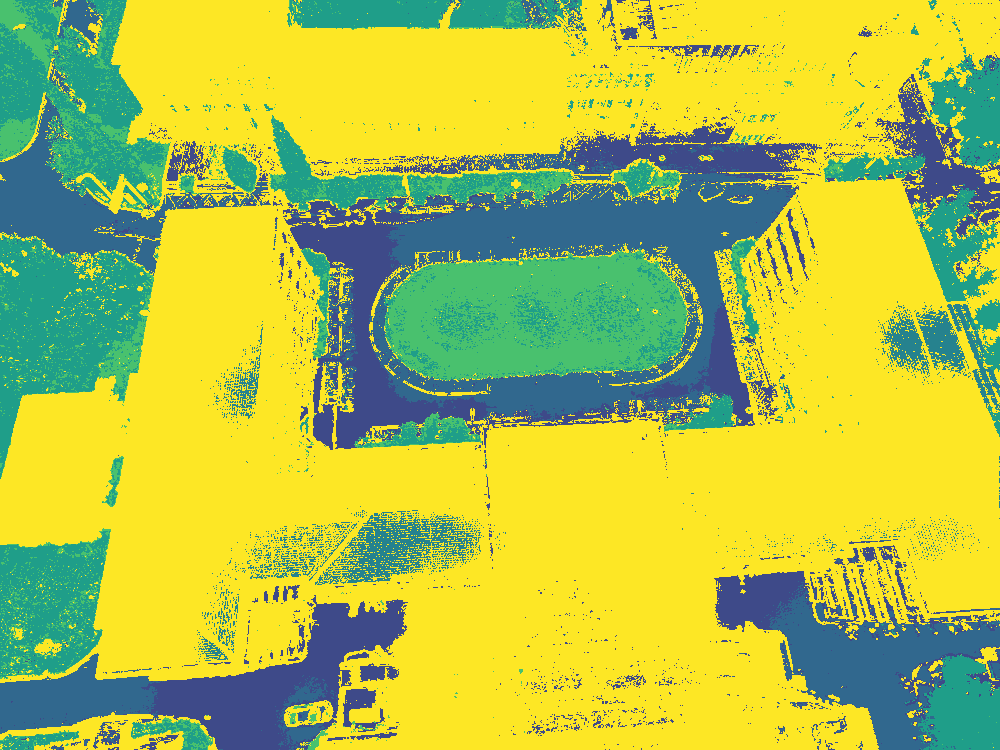
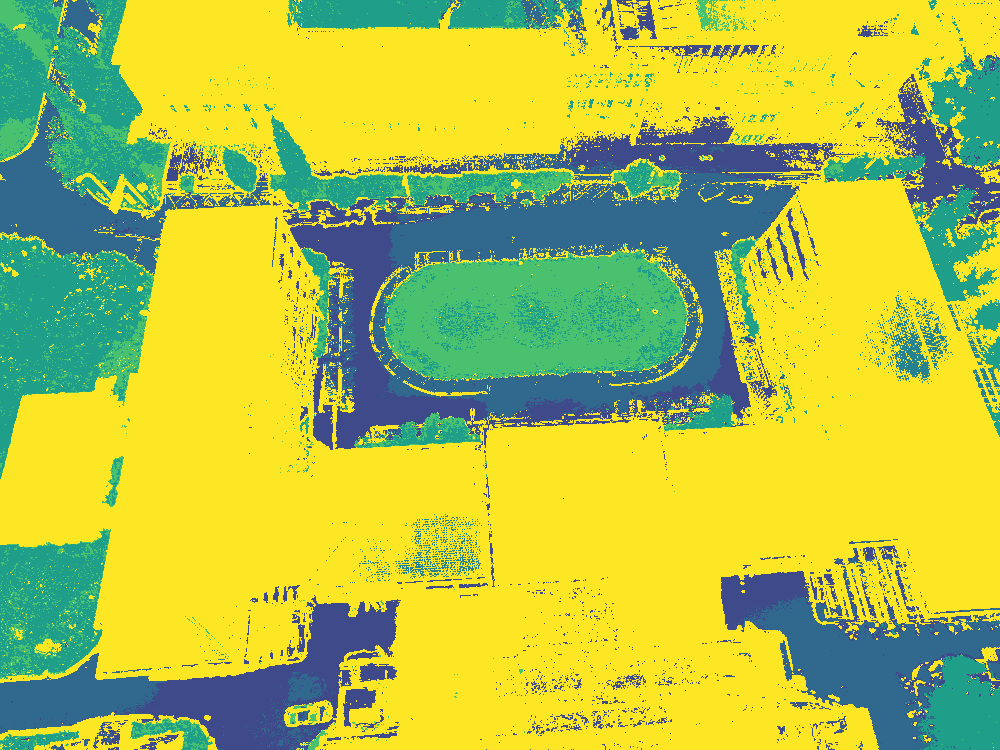
gaoding

diff --git a/dino_splat_ov/asset/vis3/2.html b/dino_splat_ov/asset/vis3/2.html
@@ -1,0 +1,62 @@
+<style>
+    * {
+        padding: 0;
+        margin: 0;
+        box-sizing: border-box;
+    }
+
+    .grid-wrap {
+        margin: 0 auto;
+        display: grid;
+        grid-template-columns: 1fr 1fr;
+        gap: 8px;
+    }
+
+    ul {
+        list-style: none;
+        display: grid;
+        grid-template-columns: 1fr 1fr;
+        gap: 8px;
+        padding: 0 10px;
+
+    }
+
+    ul li {
+        padding: 0 5px;
+
+        display: flex;
+        justify-content: center;
+        align-items: center;
+        display: flex;
+        flex-direction: column;
+        justify-content: center;
+    }
+
+    ul li img {
+        width: 100%;
+        height: 100%;
+    }
+
+    p {
+        font-size: 14px;
+    }
+</style>
+
+<ul>
+    <li>
+        <p>Origin</p><img src="./img3.jpg" alt="">
+    </li>
+    <li>
+        <p>w/ QQ && Debais</p><img src="./w_qq.png" alt="">
+
+
+    <li>
+        <p>w/ ResQQ(Ours)</p><img src="./w_resqq.png" alt="">
+    </li>
+        </li>
+
+        <li>
+        <p>w/ SatUp(Ours)</p><img src="./w_satup.png" alt="">
+    </li>
+
+</ul>

diff --git a/model.py b/model.py
@@ -103,9 +103,17 @@ class CLIPResQQ(nn.Module):
                 class_embed = self.clip_model.encode_text(tokens)
                 class_embed = F.normalize(class_embed, dim=-1)
                 group_embeds.append(class_embed.mean(dim=0))
-            combined_embed = torch.stack(group_embeds, dim=0).mean(dim=0)
+
+            # --- 方案二：两两相似度 softmax 加权平均 ---
+            group_embeds = torch.stack(group_embeds, dim=0)          # [K, D]
+            group_embeds = F.normalize(group_embeds, dim=-1)
+            sim = group_embeds @ group_embeds.T                      # [K, K]
+            scores = sim.sum(dim=1)                                  # [K]
+            weights = F.softmax(scores / 0.07, dim=0)                # [K]
+            combined_embed = (weights.unsqueeze(-1) * group_embeds).sum(dim=0)
             combined_embed = F.normalize(combined_embed, dim=-1)
             final_text_embeds.append(combined_embed)
+
         weights = torch.stack(final_text_embeds, dim=1).to(self.device)
         self.zeroshot_weights = nn.Parameter(weights)
 
@@ -163,18 +171,18 @@ class CLIPResQQ(nn.Module):
                 attn_mid = block.attn
                 qkv_mid = F.linear(x_norm_mid, attn_mid.in_proj_weight, attn_mid.in_proj_bias)
                 q_mid, k_mid, _ = qkv_mid.chunk(3, dim=-1)
-                
+
                 B_mid, N_mid, D_mid = q_mid.shape
                 num_heads_mid = attn_mid.num_heads
                 head_dim_mid = D_mid // num_heads_mid
-                
+
                 q_mid = q_mid.view(B_mid, N_mid, num_heads_mid, head_dim_mid).transpose(1, 2)
                 k_mid = k_mid.view(B_mid, N_mid, num_heads_mid, head_dim_mid).transpose(1, 2)
-                
+
                 # 计算 Query-Key 互相关注意力 (非最终层具有空间定位能力)
                 mid_attn_matrix = (q_mid @ k_mid.transpose(-2, -1)) * (head_dim_mid ** -0.5)
                 intermediate_attn = mid_attn_matrix.softmax(dim=-1)
-                
+
                 # 继续正常的前向传播
                 x_tokens = block(x_tokens)
             else:
@@ -206,16 +214,16 @@ class CLIPResQQ(nn.Module):
                 # 如果 heads 数量不同，在 head 维度进行平均
                 intermediate_attn = intermediate_attn.mean(dim=1, keepdim=True)
                 intermediate_attn = intermediate_attn.expand(-1, num_heads, -1, -1)
-            
+
             # 将中间层注意力移到与当前张量相同的设备和数据类型
             intermediate_attn = intermediate_attn.to(device=attn_matrix_qq.device, dtype=attn_matrix_qq.dtype)
-            
+
             # 残差融合: 新的注意力 = (1 - alpha) * 最后层注意力 + alpha * 中间层注意力
             # 注意：这里使用残差连接的思想，融合两种注意力
             attn_matrix_fused = (1 - self.resclip_alpha) * attn_matrix_qq + self.resclip_alpha * intermediate_attn
             # 重新归一化
             attn_matrix_fused = attn_matrix_fused / (attn_matrix_fused.sum(dim=-1, keepdim=True) + 1e-8)
-            
+
             # 使用融合后的注意力对 Value 进行加权
             attn_out = (attn_matrix_fused @ v).transpose(1, 2).reshape(B, N, -1)
         else:

diff --git a/infer.py b/infer.py
@@ -148,16 +148,17 @@ def infer_single_image(
         acc_probs = torch.zeros((C, h, w), dtype=torch.float32, device=device)
         acc_weights = torch.zeros((h, w), dtype=torch.float32, device=device)
 
-        # ---- 新增：生成二维汉宁窗 ----
-        hann_1d = torch.hann_window(win, device=device)        # [win]
-        hann_2d = torch.outer(hann_1d, hann_1d)                # [win, win]
-        # ------------------------------
+        x = torch.linspace(-1, 1, win, device=device)
+        y = torch.linspace(-1, 1, win, device=device)
+        xx, yy = torch.meshgrid(x, y, indexing="ij")
+        sigma = 0.2
+        gauss_2d = torch.exp(-(xx**2 + yy**2) / (2 * sigma**2))
 
         for idx, (y, x) in enumerate(all_positions):
             prob = all_probs[idx].to(device)          # [C, win, win]
             attn_map = attn_maps_win[idx]             # [1, win, win]
             # ---- 新增：乘以汉宁窗（空间平滑） ----
-            attn_map = attn_map * hann_2d
+            attn_map = attn_map * gauss_2d
             # --------------------------------------
             attn_map = attn_map + 1e-4
             acc_probs[:, y:y+win, x:x+win] += prob * attn_map
@@ -233,7 +234,7 @@ def main():
         "bareland,barren",
         "pavement",
         "road",
-        "water,river,pool",
+        "water,river",
         "tree,forest",
         "grass",
         "cropland,field",
@@ -254,7 +255,7 @@ def main():
     ]
 
     # 加载模型并固定eval
-    model = CLIPResQQ("ViT-B-16", classnames, device=args.device, upsampler="aaa" )
+    model = CLIPResQQ("ViT-B-16", classnames, device=args.device, upsampler="satup" )
     model.eval()
 
     # 创建输出文件夹
